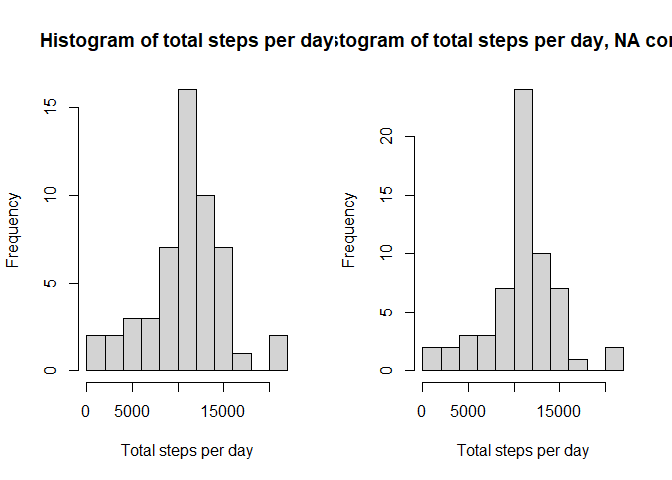
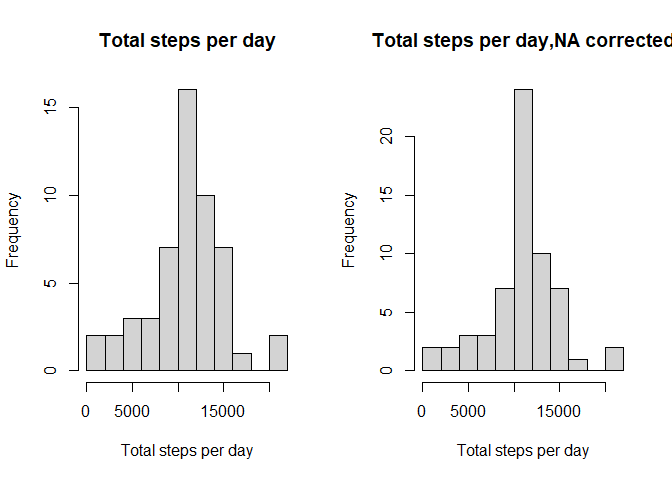
Minor corrections

Changed region(s): [[0.0625, 0.0625, 1.0, 0.125]]

diff --git a/PA1_template.html b/PA1_template.html
@@ -426,8 +426,11 @@ activity$date &lt;- as.Date(activity$date)</code></pre>
 <pre class="r"><code>library(dplyr)
 tspd &lt;- activity %&gt;% 
         group_by(date) %&gt;%
-        summarize(total_steps_per_day = sum(steps)) 
-#Note that we DO NOT use na.rm = TRUE in sum here. The reason is, this condition will replace total steps per day for days with no data with 0 and therefore will contribute significantly to mean and median value
+        summarize(total_steps_per_day = sum(steps))
+
+#Note that we DO NOT use na.rm = TRUE in sum here. The reason is, this condition will replace total steps per day for days
+#with no data with 0 and therefore will contribute significantly to mean and median value
+
 hist(tspd$total_steps_per_day,breaks = 10, main = &quot;Histogram of total steps per day&quot;, xlab = &quot;Total steps per day&quot;)</code></pre>
[1 lines of base64/hex data omitted]
 <pre class="r"><code>mean_tspd &lt;- mean(tspd$total_steps_per_day, na.rm = TRUE)
@@ -444,7 +447,8 @@ format_median_tspd &lt;- format(median_tspd, digits = 0, scientific = FALSE)</co
 <pre class="r"><code>aspi &lt;- activity %&gt;% 
         group_by(interval) %&gt;%
         summarize(averaged_steps_per_interval = mean(steps, na.rm = TRUE)) 
-plot(aspi$interval, aspi$averaged_steps_per_interval, main = &quot;Average daily activity pattern&quot;, type = &quot;l&quot;, xlab = &quot;5-minute interval&quot;, ylab = &quot;Number of steps averaged by day&quot;)</code></pre>
+plot(aspi$interval, aspi$averaged_steps_per_interval, main = &quot;Average daily activity pattern&quot;, type = &quot;l&quot;,
+     xlab = &quot;5-minute interval&quot;, ylab = &quot;Number of steps averaged by day&quot;)</code></pre>
[1 lines of base64/hex data omitted]
 <pre class="r"><code>max_aspi &lt;- aspi$interval[which.max(aspi$averaged_steps_per_interval)]</code></pre>
 <p>Therefore, the maximum steps were taken in 835 interval.</p>
@@ -482,10 +486,10 @@ tspd_na &lt;- activity_na_corrected %&gt;%
 <pre class="r"><code>#Plotting parameters to place previous histogram and new one next to each other
 par(mfrow = c(1,2))
 #old histogram with NA removed
-hist(tspd$total_steps_per_day,breaks = 10, main = &quot;Histogram of total steps per day&quot;, xlab = &quot;Total steps per day&quot;)
+hist(tspd$total_steps_per_day,breaks = 10, main = &quot;Total steps per day&quot;, xlab = &quot;Total steps per day&quot;)
 #new histogram with NA replaced 
-hist(tspd_na$total_steps_per_day,breaks = 10, main = &quot;Histogram of total steps per day, NA corrected&quot;, xlab = &quot;Total steps per day&quot;)</code></pre>
[1 lines of base64/hex data omitted]
+hist(tspd_na$total_steps_per_day,breaks = 10, main = &quot;Total steps per day,NA corrected&quot;, xlab = &quot;Total steps per day&quot;)</code></pre>
[1 lines of base64/hex data omitted]
 <pre class="r"><code>mean_tspd_na &lt;- mean(tspd_na$total_steps_per_day)
 median_tspd_na &lt;- median(tspd_na$total_steps_per_day)
 #reformat mean and median
@@ -508,7 +512,8 @@ aspi_na_wday &lt;- activity_na_corrected %&gt;%
 library(ggplot2)</code></pre>
 <pre><code>## Warning: package &#39;ggplot2&#39; was built under R version 4.0.3</code></pre>
 <pre class="r"><code>plot &lt;- ggplot(aspi_na_wday, aes(interval, total_steps_per_day))
-plot + geom_line(color = &quot;gold4&quot;) + facet_grid(wday~.) + labs(x = &quot;Intervals&quot;, y = &quot;Average Steps per Day&quot;, title = &quot;Activity Patterns&quot;)</code></pre>
+plot + geom_line(color = &quot;gold4&quot;) + facet_grid(wday~.) + labs(x = &quot;Intervals&quot;, y = &quot;Average Steps per Day&quot;,
+title = &quot;Activity Patterns&quot;)</code></pre>
[1 lines of base64/hex data omitted]
 <p>As can be seen, the patterns look rather similar except that activity starts earlier on weekdays (as expected). There is also a late spike for weekend activity indicating that some people have some interesting life on these days.</p>
 </div>

diff --git a/PA1_template.md b/PA1_template.md
@@ -26,8 +26,11 @@ We use dplyr package to group data by date and sum steps in these groups. Result
 library(dplyr)
 tspd <- activity %>% 
         group_by(date) %>%
-        summarize(total_steps_per_day = sum(steps)) 
-#Note that we DO NOT use na.rm = TRUE in sum here. The reason is, this condition will replace total steps per day for days with no data with 0 and therefore will contribute significantly to mean and median value
+        summarize(total_steps_per_day = sum(steps))
+
+#Note that we DO NOT use na.rm = TRUE in sum here. The reason is, this condition will replace total steps per day for days
+#with no data with 0 and therefore will contribute significantly to mean and median value
+
 hist(tspd$total_steps_per_day,breaks = 10, main = "Histogram of total steps per day", xlab = "Total steps per day")
 ```
 
@@ -52,7 +55,8 @@ Therefore, mean total number of steps per day is 10766 and median total number o
 aspi <- activity %>% 
         group_by(interval) %>%
         summarize(averaged_steps_per_interval = mean(steps, na.rm = TRUE)) 
-plot(aspi$interval, aspi$averaged_steps_per_interval, main = "Average daily activity pattern", type = "l", xlab = "5-minute interval", ylab = "Number of steps averaged by day")
+plot(aspi$interval, aspi$averaged_steps_per_interval, main = "Average daily activity pattern", type = "l",
+     xlab = "5-minute interval", ylab = "Number of steps averaged by day")
 ```
 
 ![](PA1_template_files/figure-html/unnamed-chunk-3-1.png)<!-- -->
@@ -114,9 +118,9 @@ tspd_na <- activity_na_corrected %>%
 #Plotting parameters to place previous histogram and new one next to each other
 par(mfrow = c(1,2))
 #old histogram with NA removed
-hist(tspd$total_steps_per_day,breaks = 10, main = "Histogram of total steps per day", xlab = "Total steps per day")
+hist(tspd$total_steps_per_day,breaks = 10, main = "Total steps per day", xlab = "Total steps per day")
 #new histogram with NA replaced 
-hist(tspd_na$total_steps_per_day,breaks = 10, main = "Histogram of total steps per day, NA corrected", xlab = "Total steps per day")
+hist(tspd_na$total_steps_per_day,breaks = 10, main = "Total steps per day,NA corrected", xlab = "Total steps per day")
 ```
 
 ![](PA1_template_files/figure-html/unnamed-chunk-5-1.png)<!-- -->
@@ -161,7 +165,8 @@ library(ggplot2)
 
 ```r
 plot <- ggplot(aspi_na_wday, aes(interval, total_steps_per_day))
-plot + geom_line(color = "gold4") + facet_grid(wday~.) + labs(x = "Intervals", y = "Average Steps per Day", title = "Activity Patterns")
+plot + geom_line(color = "gold4") + facet_grid(wday~.) + labs(x = "Intervals", y = "Average Steps per Day",
+title = "Activity Patterns")
 ```
 
 ![](PA1_template_files/figure-html/unnamed-chunk-6-1.png)<!-- -->
